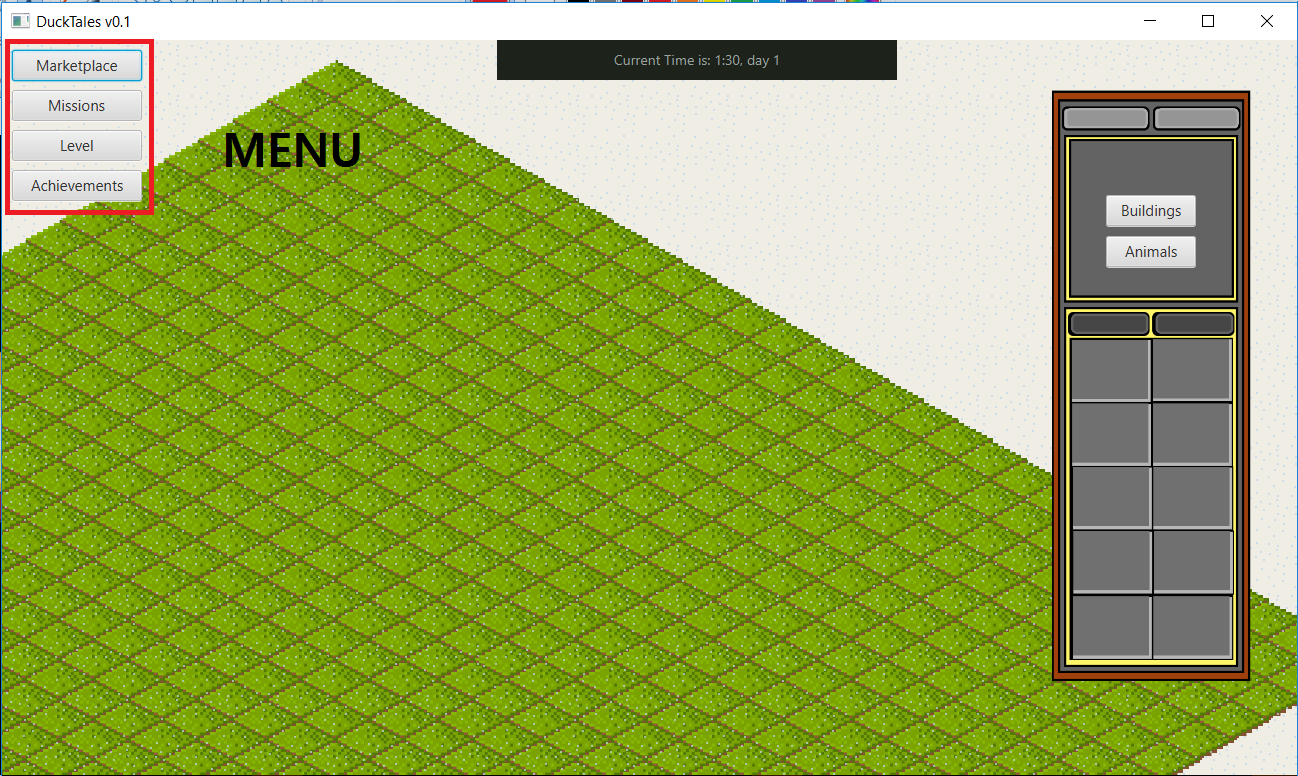
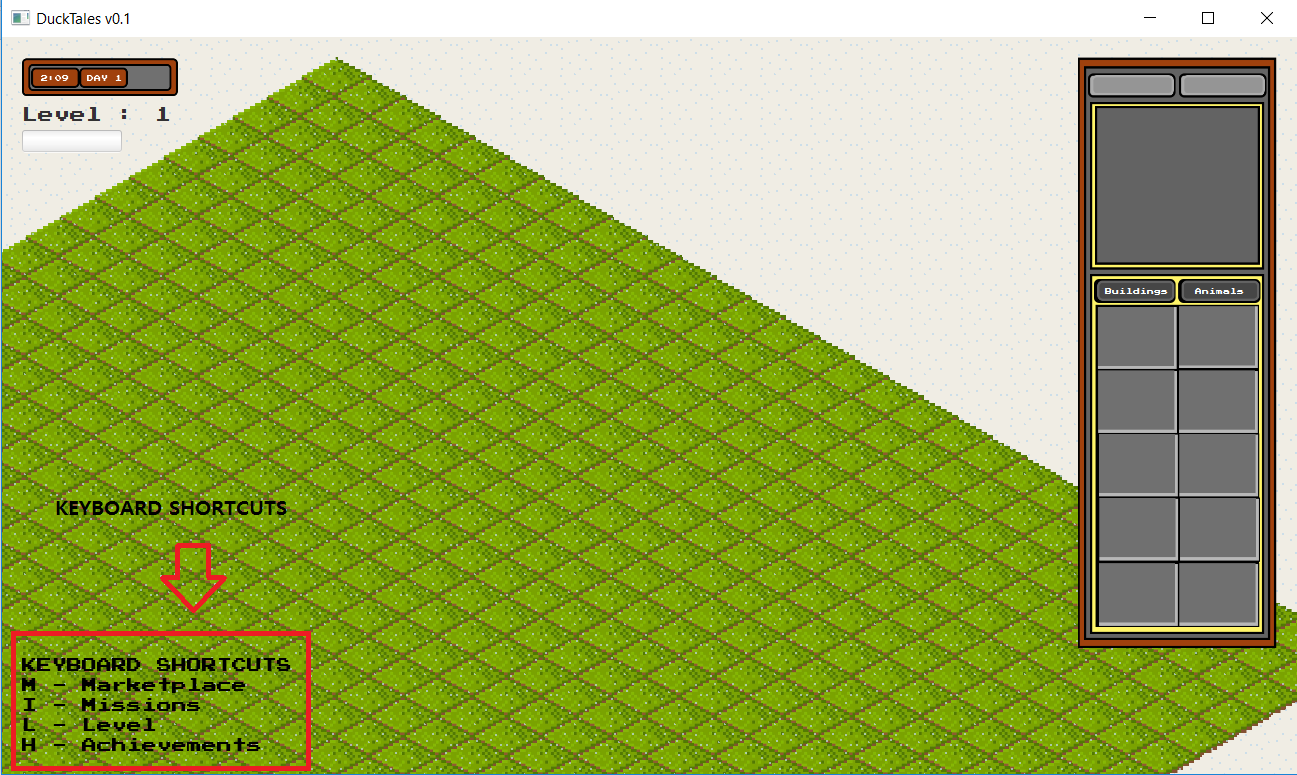
small updates in tutorial

diff --git a/ducktales/src/main/java/uq/deco2800/ducktales/features/missions/MissionManager.java b/ducktales/src/main/java/uq/deco2800/ducktales/features/missions/MissionManager.java
@@ -69,8 +69,8 @@ public class MissionManager {
 		
 		missions.setVgap(10);
 		missions.add(createMission("1.Press T to open Tutorial :  ", 0), 0, 1);
-		missions.add(createMission("2.Open Achievement :  ", 1), 0, 2);		
-		missions.add(createMission("3.Open Marketplace :  ", 2), 0, 3);
+		missions.add(createMission("2.Press H to open Achievement :  ", 1), 0, 2);		
+		missions.add(createMission("3.Press M to open Marketplace :  ", 2), 0, 3);
 		
 		ScrollPane scroll = new ScrollPane(missions);
 		
